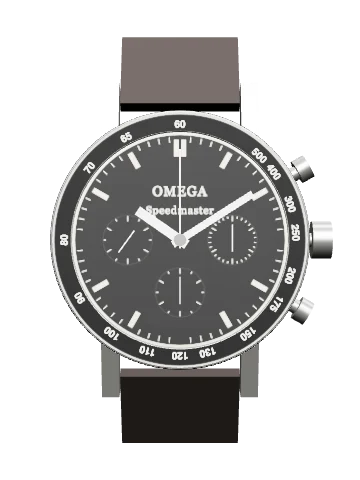
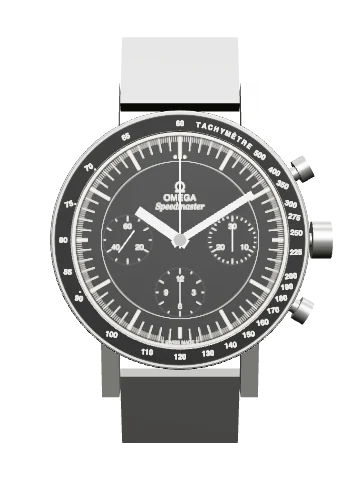
Speedmaster 105.003 front checked against photographs: full tachymeter scale with TACHYMETRE and the dot over 90, emblem and lettering, fifths track, long bars, register figures, steel bracelet

diff --git a/workbench/watches/speedmaster-105003.js b/workbench/watches/speedmaster-105003.js
@@ -23,7 +23,7 @@ export default {
     type: 'procedural',
     builder: 'round-chronograph',
     note: 'Case and lugs are simplified. The movement is laid out from Omega’s 1958 spare-parts sheet for calibre 321: wheel positions are measured from its photographs; sizes, heights, tooth counts and lever shapes are estimated. Not a factory model or scan.',
-    params: { thickness: 14, lugToLug: 47.6, lugWidth: 19, movementDiameter: 27, beatsPerHour: 18000, calibre: '321' }
+    params: { thickness: 14, lugToLug: 47.6, lugWidth: 19, movementDiameter: 27, beatsPerHour: 18000, calibre: '321', bracelet: true }
   },
   images: [],                           // no photographs are bundled; Studio mode is a render
 
@@ -54,7 +54,7 @@ export default {
     { h: 'Reference differences', s: 'D', p: '105.002 (1962): same case, alpha hands. 105.003: baton hands. 105.012 and 145.012: larger asymmetrical case that shelters the crown and pushers, “Professional” on the dial; these are the references worn on the Moon. 145.022 (1968): calibre 321 replaced by the cam-operated calibre 861.' },
     { h: 'Notable variations', s: 'D', p: 'Bezels of this period carry a dot above the 90 of the tachymeter scale, a detail collectors use for dating. Dials are stepped, with an applied metal Omega symbol.' },
     { h: 'How the movement was laid out', s: 'E', p: 'The positions of the barrel, the going train, the pallets, the balance, the column wheel and the chronograph wheels are measured from Omega’s spare-parts sheet for the calibre (GF 620-4, 1958): its photograph of the main plate, printed at actual size, and its photograph of the assembled movement. Each is good to about 0.3 mm. The sheet also gives the 27.00 mm diameter, 6.74 mm height and 18,000 vibrations an hour.' },
-    { h: 'What is estimated or left out', s: 'I', p: 'The sheet gives no tooth counts, so every tooth count here is an estimate, as are wheel diameters, pinion sizes and the height of each part in the stack. The outlines of the bridges and levers are simplified. The springs, the jumpers, the blocking lever, the winding and setting works and the 12-hour recorder under the dial are not modelled. The caseback’s seahorse engraving and the dial’s fine print are not reproduced.' }
+    { h: 'What is estimated or left out', s: 'I', p: 'The sheet gives no tooth counts, so every tooth count here is an estimate, as are wheel diameters, pinion sizes and the height of each part in the stack. The outlines of the bridges and levers are simplified. The springs, the jumpers, the blocking lever, the winding and setting works and the 12-hour recorder under the dial are not modelled. The caseback’s seahorse engraving is not reproduced. The dial’s lettering follows photographs of the reference, but its typefaces are approximations.' }
   ],
 
   components: [
@@ -66,12 +66,12 @@ export default {
       significance: 'The plastic crystal is part of why the watch passed NASA’s tests and was kept for flight.', related: ['bezel', 'dial'] },
     { id: 'bezel', name: 'Tachymeter bezel', group: 'Exterior', status: 'D', anchor: [0, 18, 4.2], face: 1,
       beginner: 'The black ring with numbers. Start the stopwatch at one kilometre marker, stop it at the next, and the seconds hand points to your speed.',
-      horologist: 'Fixed steel bezel with a black anodised aluminium insert, scale based on 3600 divided by elapsed seconds. In the model each figure sits at exactly that angle. Period inserts place a dot above the 90.',
+      horologist: 'Fixed steel bezel with a black anodised aluminium insert, scale based on 3600 divided by elapsed seconds. The figures run from 500 to 60 after the word TACHYMÈTRE, as read from photographs of the reference, and each sits at exactly that angle. A dot stands above the 90, as on period inserts. The slight lean of the figures is approximated, and the fine marks between them are left out.',
       fn: 'Converts an elapsed time over a known distance into units per hour.', material: 'Steel ring, aluminium insert', location: 'Around the crystal.',
       significance: 'Putting this scale on the bezel in 1957 was the Speedmaster’s defining idea and cleared the dial.', related: ['hands', 'crystal'] },
     { id: 'dial', name: 'Dial and registers', group: 'Exterior', status: 'D', anchor: [-8, -1, 2.4], face: 1,
       beginner: 'The black face. The three small dials are a running seconds hand on the left, a 30-minute counter on the right and a 12-hour counter at the bottom.',
-      horologist: 'Matte black stepped dial with applied logo. Running seconds at 9, 30-minute recorder at 3, 12-hour recorder at 6. The seconds register sits directly above the fourth wheel, which is why it is where it is.',
+      horologist: 'Matte black stepped dial with an applied metal emblem above OMEGA and Speedmaster, and no “Professional”; T SWISS MADE T at the foot. Long luminous bars mark the hours, with two dots flanking the bar at twelve, inside a track divided into fifths of a second. The lettering is placed from photographs; the emblem is shown as a plain letter and the script as italic. Running seconds at 9, 30-minute recorder at 3, 12-hour recorder at 6. The seconds register sits directly above the fourth wheel, which is why it is where it is.',
       fn: 'Displays the time and the chronograph’s elapsed minutes and hours.', material: 'Painted brass (typical for the period)', location: 'Under the crystal, fixed to the movement.',
       significance: 'High contrast and no decoration. NASA’s astronauts valued the legibility.', related: ['hands', 'fourth', 'minute-recorder'] },
     { id: 'hands', name: 'Hands', group: 'Exterior', status: 'D', anchor: [3, 9, 3.1], face: 1,
@@ -94,9 +94,9 @@ export default {
       horologist: 'Pump pushers at 2 and 4. The upper advances the column wheel one step per press: start, stop. The lower drives the hammer onto the heart cams, and the column wheel blocks it while the chronograph runs.',
       fn: 'Operate the chronograph.', material: 'Stainless steel', location: 'Right flank, at 2 and 4 o’clock.',
       significance: 'The firm, stepped feel of a column-wheel pusher is one reason the calibre is admired.', related: ['column-wheel', 'hammer'] },
-    { id: 'strap', name: 'Strap', group: 'Exterior', status: 'I', anchor: [0, 28, -3], face: 0,
+    { id: 'strap', name: 'Bracelet', group: 'Exterior', status: 'I', anchor: [0, 28, -3], face: 0,
       beginner: 'What holds the watch on the wrist. Shown here as a plain stub.',
-      horologist: 'Generic strap ends, included only to show how the watch sits. The original bracelets and their reference numbers are not represented.',
+      horologist: 'The watch was sold on a steel bracelet of flat links. Only plain steel stubs are shown; the links are not modelled.',
       fn: 'Attaches the watch to the wrist.', material: 'Not specified', location: 'Between the lugs.',
       significance: 'Astronauts wore the watch on long fabric straps over the suit sleeve.', related: ['case'] },
     { id: 'caseback', name: 'Caseback', group: 'Exterior', status: 'D', anchor: [0, 0, -6.6], face: -1,

diff --git a/draw.js b/draw.js
@@ -167,6 +167,17 @@ function bezel(w, g) {
     if (b.first15) for (let m = 1; m < 15; m++) if (m % 5) s += rad(m * 6, ri + 0.35, ri + 1.25, 't');
   } else if (b.type === 'tachy') {
     s += C(R - 0.4, 0, 0, 'tn') + C(ri, 0, 0, 'p');
+    if (b.scale === '105') { /* the insert of the Speedmaster 105.003, read from photographs: these figures, each nearly level and not turned to follow the ring; the word TACHYMÈTRE after twelve;
+         a dot above the 90, and dots beside the 75 and the 70. Each figure stands at 3600 divided by its value, in seconds. The slight lean of the figures is approximated, and the fine marks between them are left out. */
+      const rm = (R - 0.4 + ri) / 2 + 0.1, sz = Math.min(b.w * 0.36, 1.15), dg = Math.PI / 180;
+      [500, 400, 350, 300, 275, 250, 225, 200, 190, 180, 170, 160, 150, 140, 130, 120, 110, 100, 90, 85, 80, 75, 70, 65, 60].forEach(v => {
+        const a = 21600 / v, p = P(a, rm), tilt = (Math.cos(a * dg) > 0 ? 30 : 10) * Math.sin(2 * a * dg);
+        s += T(v, 0, sz * 0.36, sz, 'tx bz', `transform="translate(${f(p[0])},${f(p[1])}) rotate(${f(tilt)})"`) + rad(a, ri + 0.08, ri + 0.38, 't');
+        if (v === 90) s += C(0.13, p[0] + sz * 0.15, p[1] - sz * 0.85, 'k'); else if (v === 75) s += C(0.13, p[0] + sz * 0.85, p[1], 'k'); else if (v === 70) s += C(0.13, p[0] + sz * 0.85, p[1] + sz * 0.3, 'k');
+      });
+      [...'TACHYMÈTRE'].forEach((ch, i) => { s += T(ch, 0, 0, sz * 0.92, 'tx bz', `transform="rotate(${f(9 + i * 3.05)}) translate(0,${f(-rm + sz * 0.33)})"`); });
+      return s;
+    }
     const rm = (R - 0.4 + ri) / 2, sz = Math.min(b.w * 0.48, 1.55);
     TACHY.forEach(v => { const a = 21600 / v; s += T(v, 0, 0, sz, 'tx bz', `transform="rotate(${f(a)}) translate(0,${f(-rm + sz * 0.36)})"`); });
     for (let i = 0; i < 60; i++) { const p = P(i * 6 + 3, ri + 0.3); s += C(0.09, p[0], p[1], 'k'); }
@@ -202,6 +213,11 @@ function markers(w, g, skip) {
   switch (m) {
     case 'dive': s += `<g class="gt">${ticks(1.0)}</g>`; each(h => h === 0 ? tri(4.3, 2.9, 0.9) : h % 3 === 0 ? bat(h, 3.0, 1.2, 'p', 1.35) : (p => C(1.15, p[0], p[1], 'p'))(P(h * 30, R0 - 2.3))); break; // the triangle is tall and narrow, as on the watch
     case 'explorer': s += '<g class="gt">'; for (let i = 0; i < 60; i++) s += rad(i * 6, E(i * 6) - 1.7, E(i * 6) - 0.2, 't'); s += '</g>'; each(h => h === 0 ? tri(3.3, 3.0, 2.0) : h % 3 === 0 ? num(h, h, R0 * 0.27, R0 * 0.7) : bat(h, 2.5, 0.85, 'p', 2.0)); break; // long printed minute marks at the edge, with the luminous hour marks set inside them
+    case 'speed': { // the Speedmaster's dial, from photographs of a 105.003: a track in fifths of a second, long thin luminous bars, short ones beside the registers, and two dots flanking the bar at twelve
+      for (let i = 0; i < 300; i++) { const a = i * 1.2, r = E(a) - 0.25; if (i % 25 === 0 || (i > 142 && i < 158 && i % 5)) continue; /* the fine marks give way to the words at the foot */ s += i % 5 ? rad(a, r - 0.75, r, 'hair') : rad(a, r - 2.1, r, 't'); }
+      for (let h = 0; h < 12; h++) s += bat(h, h && h % 3 === 0 ? 1.7 : 3.4, 0.5, 'p', h === 6 ? 1.0 : 0.25);
+      s += C(0.28, -0.72, -(R0 - 3.35), 'p') + C(0.28, 0.72, -(R0 - 3.35), 'p') + C(R0 - 4.0, 0, 0, 'hair'); // the last circle is the step in the dial
+      break; }
     case 'baton': s += ticks(); each(h => h === 0 ? dbl(2.6, 0.8) : bat(h, 2.6, 0.8)); break;
     case 'block': s += ticks(); each(h => h === 0 ? dbl(2.8, 1.3) : bat(h, 2.6, 1.7)); break;
     case 'sm300': s += ticks(); each(h => h % 3 === 0 ? num(h, h || 12, R0 * 0.25, R0 * 0.7) + bat(h, 1, 1) : bat(h, 3.6, 1.1)); break;
@@ -312,6 +328,7 @@ function subs(w, g, o = {}) {
     s += d.subSquare ? RC(cx - rs, cy - rs, 2 * rs, 2 * rs, cls, 0.9) : C(rs, cx, cy, 'p') + C(rs, cx, cy, cls, sty);
     const n = role === 'min30' ? 30 : 12;
     if (!d.subSquare) for (let i = 0; i < n; i++) s += rad(i * 360 / n, rs - (i % (n / 6) ? 0.45 : 0.9), rs - 0.12, 't sk' + pos, cx, cy);
+    if (d.subNums && !d.subSquare) (role === 'hr12' ? [[0, 12], [90, 3], [180, 6], [270, 9]] : role === 'min30' ? [[0, 30], [120, 10], [240, 20]] : [[0, 60], [120, 20], [240, 40]]).forEach(q => { const p = P(q[0], rs * 0.56, cx, cy), z = rs * 0.3; s += T(q[1], p[0], p[1] + z * 0.36, z, 'tx sn', 'style="font-family:Helvetica,Arial,sans-serif"'); }); // the figures printed in each register
     if (!o.noHands) s += `<g transform="translate(${cx},${cy})"><g ${role === 'sec' ? `data-hand="s" data-bps="${b}"` : `data-chr="${role === 'min30' ? 'm' : 'h'}"`}>${L(0, 0.8, 0, -rs * 0.82, 'hd')}</g>${C(0.32, 0, 0, 'k')}</g>`;
   }
   return s;
@@ -331,8 +348,9 @@ function dtext(w, g, o) {
      Places and sizes are fractions of the dial's radius, read from those photographs. The coronet is a simple five-pointed figure, not the maker's exact drawing. */
   if (d.set && !o.redact) {
     const q = d.set, sans = 'style="font-family:Helvetica,Arial,sans-serif" letter-spacing=".03em"';
+    if (q.omega != null) s += T('Ω', 0, R0 * q.omega, R0 * 0.13, 'tx om', 'style="font-family:Helvetica,Arial,sans-serif"'); // the applied metal emblem, shown as the letter
     if (q.crown != null) { const u = R0 * 0.075, y0 = R0 * q.crown; s += Pa(polyD([[-.55, 0], [-.95, -.7], [-.45, -.32], [-.5, -.98], [-.12, -.38], [0, -1.12], [.12, -.38], [.5, -.98], [.45, -.32], [.95, -.7], [.55, 0]].map(p => [f(p[0] * u), f(y0 + p[1] * u)])), 'k dl') + [[-.95, -.7], [-.5, -.98], [0, -1.12], [.5, -.98], [.95, -.7]].map(p => C(u * 0.1, p[0] * u, y0 + p[1] * u, 'k dl')).join('') + RC(-0.55 * u, y0 + 0.08 * u, 1.1 * u, 0.12 * u, 'k dl'); }
-    q.lines.forEach(l => { s += T(l[0].replace(/&/g, '&amp;'), 0, R0 * l[1], R0 * l[2], 'tx dl', l[3] ? sans : 'letter-spacing=".06em"'); });
+    q.lines.forEach(l => { s += T(l[0].replace(/&/g, '&amp;'), 0, R0 * l[1], R0 * l[2], 'tx dl', l[3] === 2 ? 'style="font-style:italic"' : l[3] ? sans : 'letter-spacing=".06em"'); }); // 2: a script line, approximated in italic
     if (q.foot) s += T(q.foot, 0, R0 - 0.12, R0 * 0.042, 'tx dl', sans);
     return s;
   }

diff --git a/data.js b/data.js
@@ -38,7 +38,7 @@ window.WATCHES = [
 {
   id:'speedy105003', brand:'Omega', model:'Speedmaster', ref:'105.003', year:'1964', span:'c. 1964 – 1969', kind:'Chronograph',
   c:{shape:'round', d:39.7, t:[14,'a'], lug:[19,'v'], straight:true},
-  bezel:{type:'tachy', w:3.3, dark:true}, dial:{dark:true, markers:'baton', subs:[[3,'min30'],[6,'hr12'],[9,'sec']], text:['OMEGA','Speedmaster']},
+  bezel:{type:'tachy', w:3.3, dark:true, scale:'105'}, dial:{dark:true, markers:'speed', subNums:true, subs:[[3,'min30'],[6,'hr12'],[9,'sec']], text:['OMEGA','Speedmaster'], set:{omega:-0.46, lines:[['OMEGA',-0.375,0.08,1],['Speedmaster',-0.295,0.08,2]], foot:'T SWISS MADE T'}},
   hands:'baton', sec:'sub', chrono:true, crown:{pos:3}, pushers:'pump', strap:'flat',
   mv:{cal:'321', type:'chrono', vph:18000, wind:'Manual', size:'27 mm', note:'Column-wheel chronograph derived from the Lemania 2310.'},
   back:{type:'screw', emblem:'Hippocampus emblem', note:'Screw back. The seahorse emblem is indicated, not reproduced.'},
